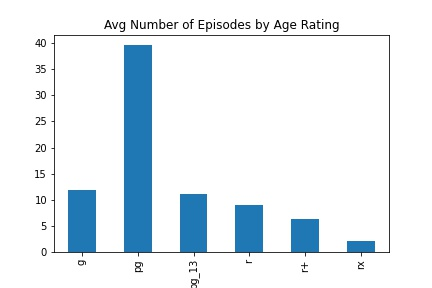
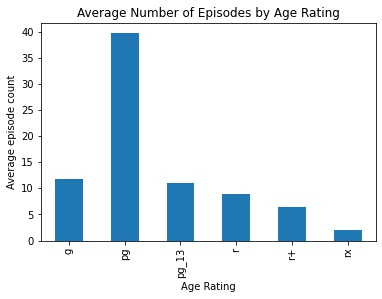
rating trends updated

Changed region(s): [[0.0, 0.0, 1.0, 1.0]]

diff --git a/rating_trends.py b/rating_trends.py
@@ -7,7 +7,7 @@ import matplotlib as plt
 # %%
 def savePlot(plot, name):
     fig = plot.get_figure()
-    fig.savefig("outputs/" + name + '.jpeg')
+    fig.savefig("outputs/" + name + '.jpeg', bbox_inches='tight')
 
 
 # %%
@@ -28,42 +28,45 @@ df1 = df1.pivot(index='start_date', columns='rating', values='anime_count')
 
 # %%
 # Grouping by year to make the plot smoother
-plot = df1.groupby([(df1.index.year)]).sum().plot(title='Number of anime started by rating by year')
+plot = df1.groupby([(df1.index.year)]).sum().plot(title='Number of anime started by year', xlabel='Start Year', ylabel='No of anime started')
 savePlot(plot, 'rating_num_anime_vs_year')
 
 
 # %%
 df2 = df.groupby(['rating'])['popularity'].mean()
-savePlot(df2.plot(kind='bar', title = 'Mean popularity by Age Rating'), 'rating_vs_popularity')
+savePlot(df2.plot(kind='bar', title = 'Mean popularity by Age Rating', xlabel='Age Rating', ylabel='Mean Popularity', legend=False), 'rating_vs_popularity')
 
 
 # %%
-def generateHistogram(field, title):
+def generateHistogram(field, title, ylabel):
     df2 = df.groupby(['rating'])[field].mean()
-    plot = df2.plot(kind='bar', title = title + ' by Age Rating', legend=False)
+    plot = df2.plot(kind='bar', title = title + ' by Age Rating', xlabel='Age Rating', ylabel=ylabel, legend=False)
     savePlot(plot, 'rating_vs_' + field)
 
 
 # %%
+len(df.id.unique())
+
+# %%
 df3 = df.groupby(['rating'])['id'].count()
-savePlot(df3.plot(kind='bar', title = 'Num anime by Age Rating'), 'rating_count')
+savePlot(df3.plot(kind='bar', title = 'Anime Count by Age Rating', xlabel='Age Rating', ylabel='Anime Count', legend=False), 'rating_count')
 
 
 # %%
-generateHistogram('num_list_users', 'Number of Listed Users')
+generateHistogram('num_list_users', 'Number of Users', 'No of users')
 
 # %%
-generateHistogram('num_episodes', 'Avg Number of Episodes')
+generateHistogram('num_episodes', 'Average Number of Episodes', 'Average episode count')
 
 # %%
 df['average_episode_duration'] /= 60
-generateHistogram('average_episode_duration', 'Avg Episode Duration')
+generateHistogram('average_episode_duration', 'Average Episode Duration', 'Average episode duration (min)')
 
 # %%
-generateHistogram('mean', 'Avg Score')
+generateHistogram('mean', 'Average Score', 'Average Score')
 
 # %%
-generateHistogram('rank', 'Avg Rank')
+generateHistogram('rank', 'Average Rank', 'Average Rank')
 
 # %%
 # plot_fields = ['mean', 'rank', 'num_list_users', 'num_episodes','average_episode_duration']

diff --git a/anime_num.py b/anime_num.py
@@ -27,6 +27,6 @@ df1.rename({'id': 'anime_count'}, axis=1, inplace=True)
 # %%
 # plot = df1.plot()
 # Grouping by year to make the plot smoother
-plot = df1.groupby([(df1.index.year)]).sum().plot(title='Number of anime started vs year')
+plot = df1.groupby([(df1.index.year)]).sum().plot(title='Number of anime started vs year', xlabel='Start Year', ylabel='Anime Count', legend=False)
 fig = plot.get_figure()
-fig.savefig("outputs/num_anime_vs_year.jpeg")
+fig.savefig("outputs/num_anime_vs_year.jpeg", bbox_inches='tight')
